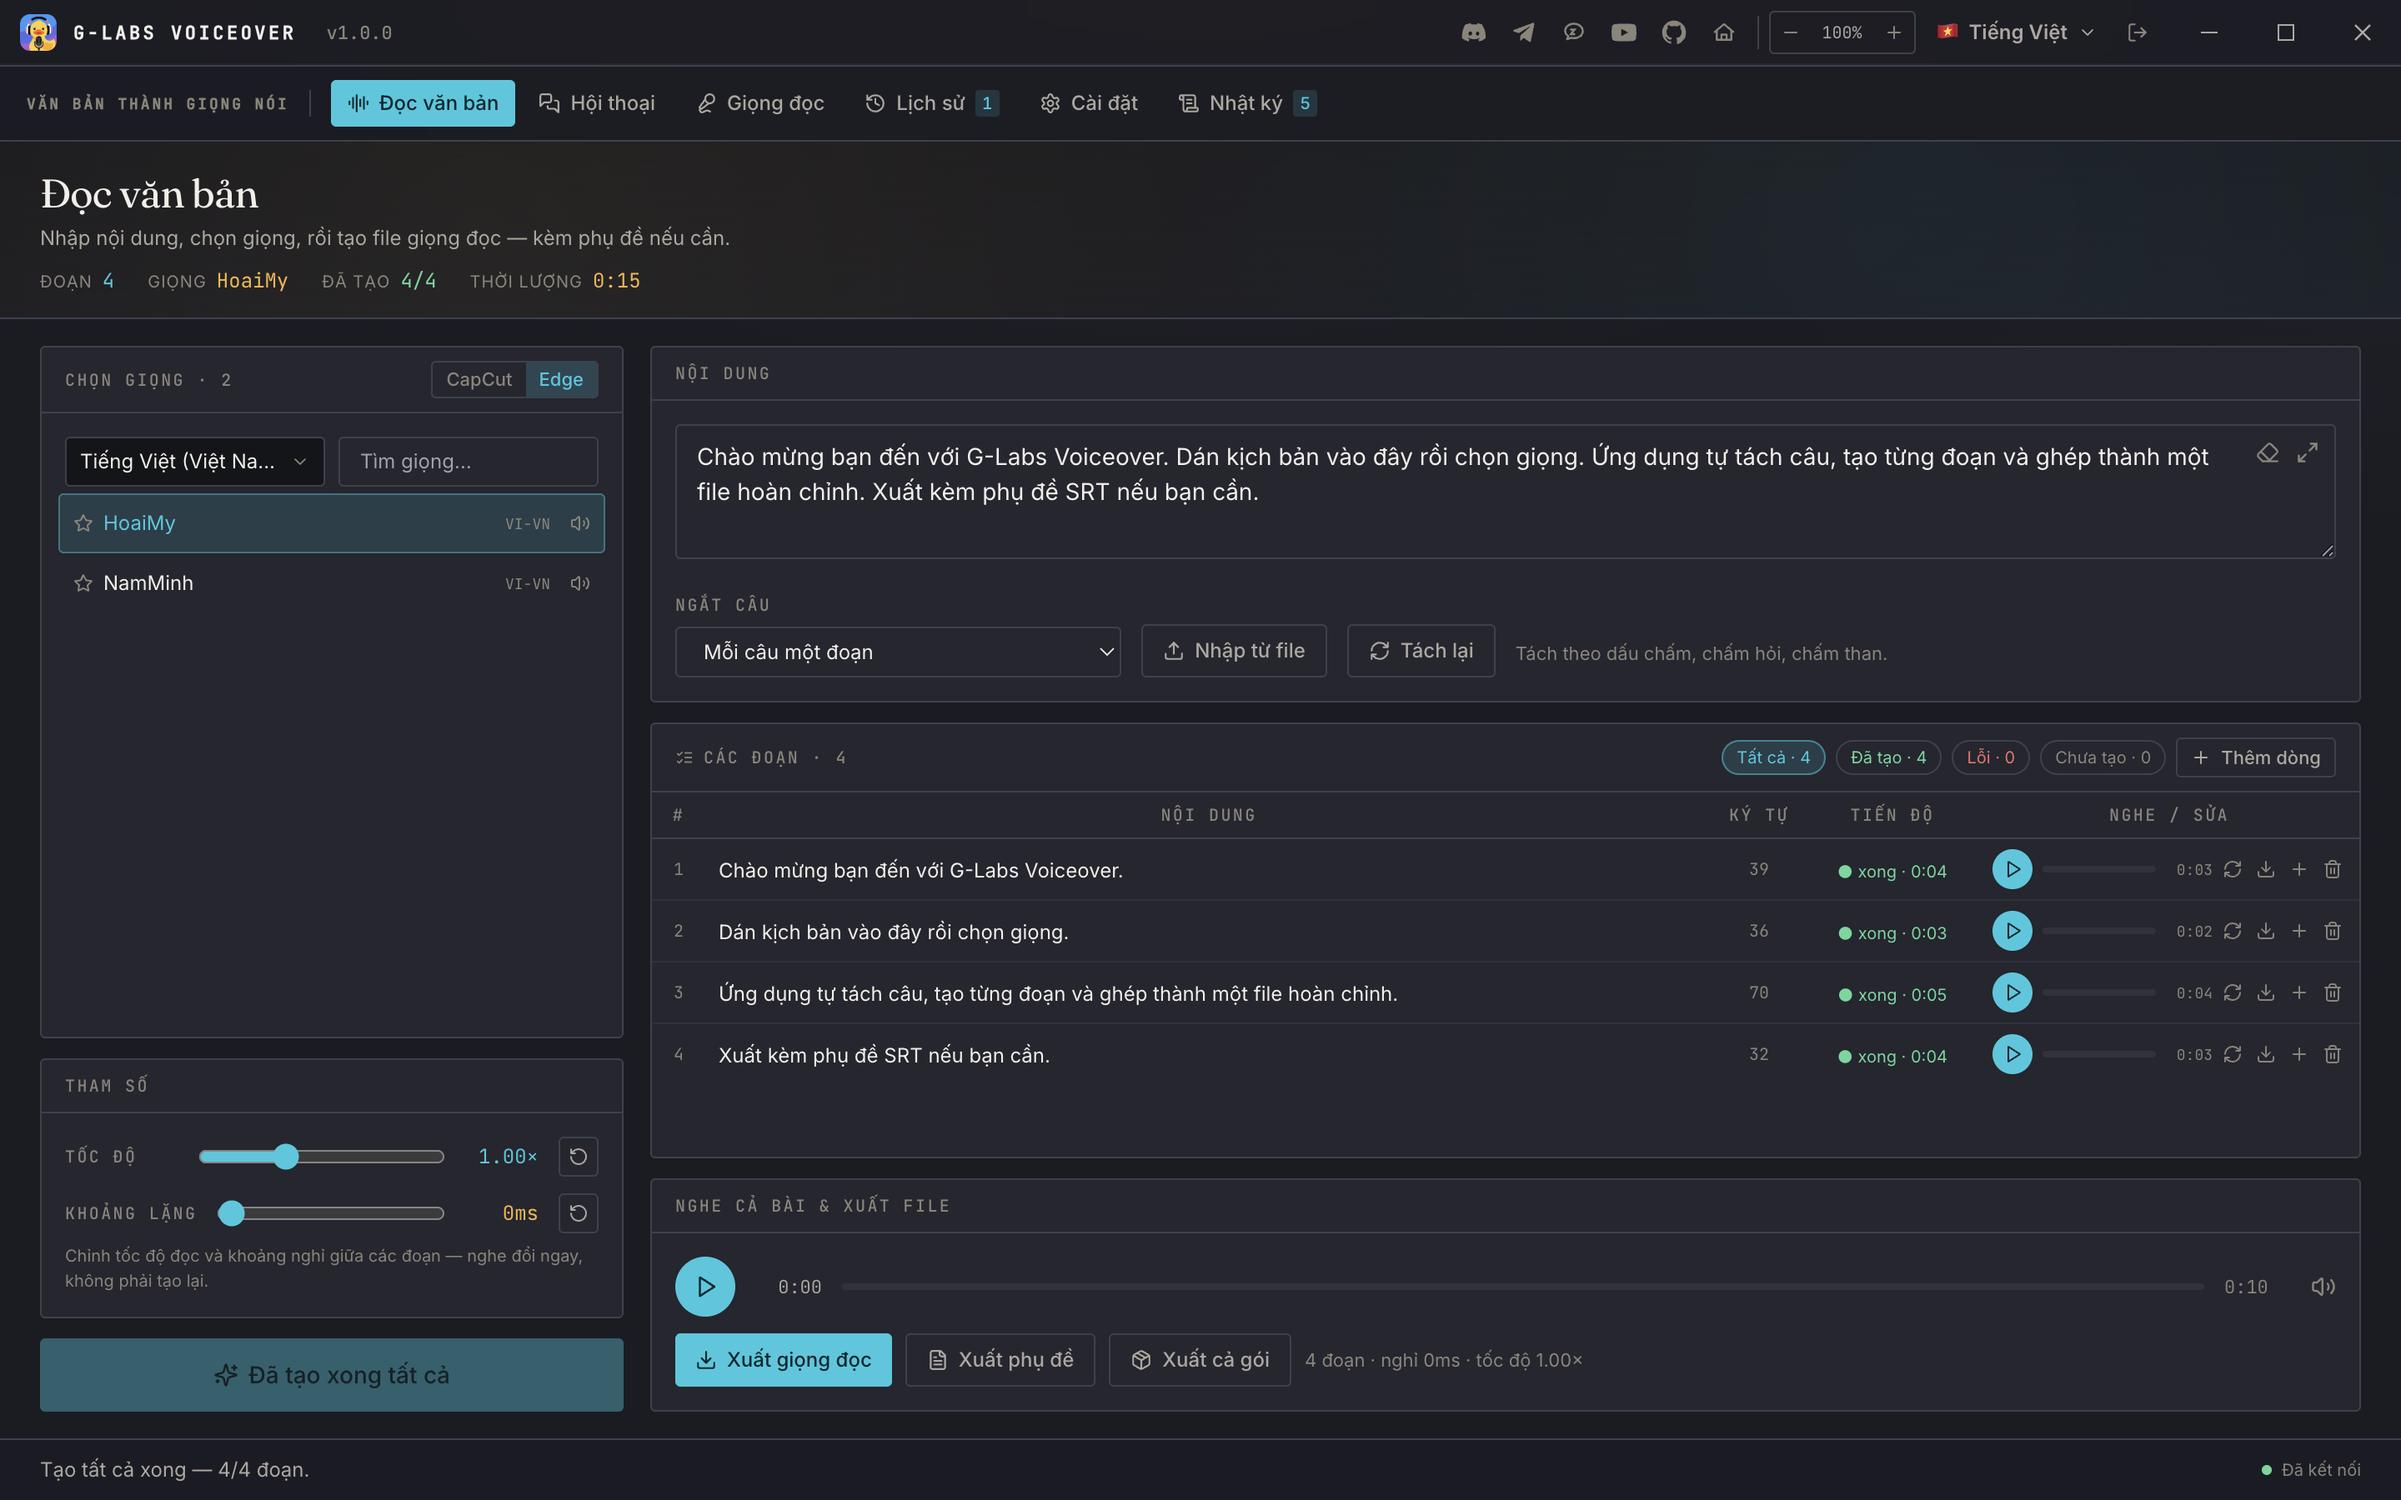
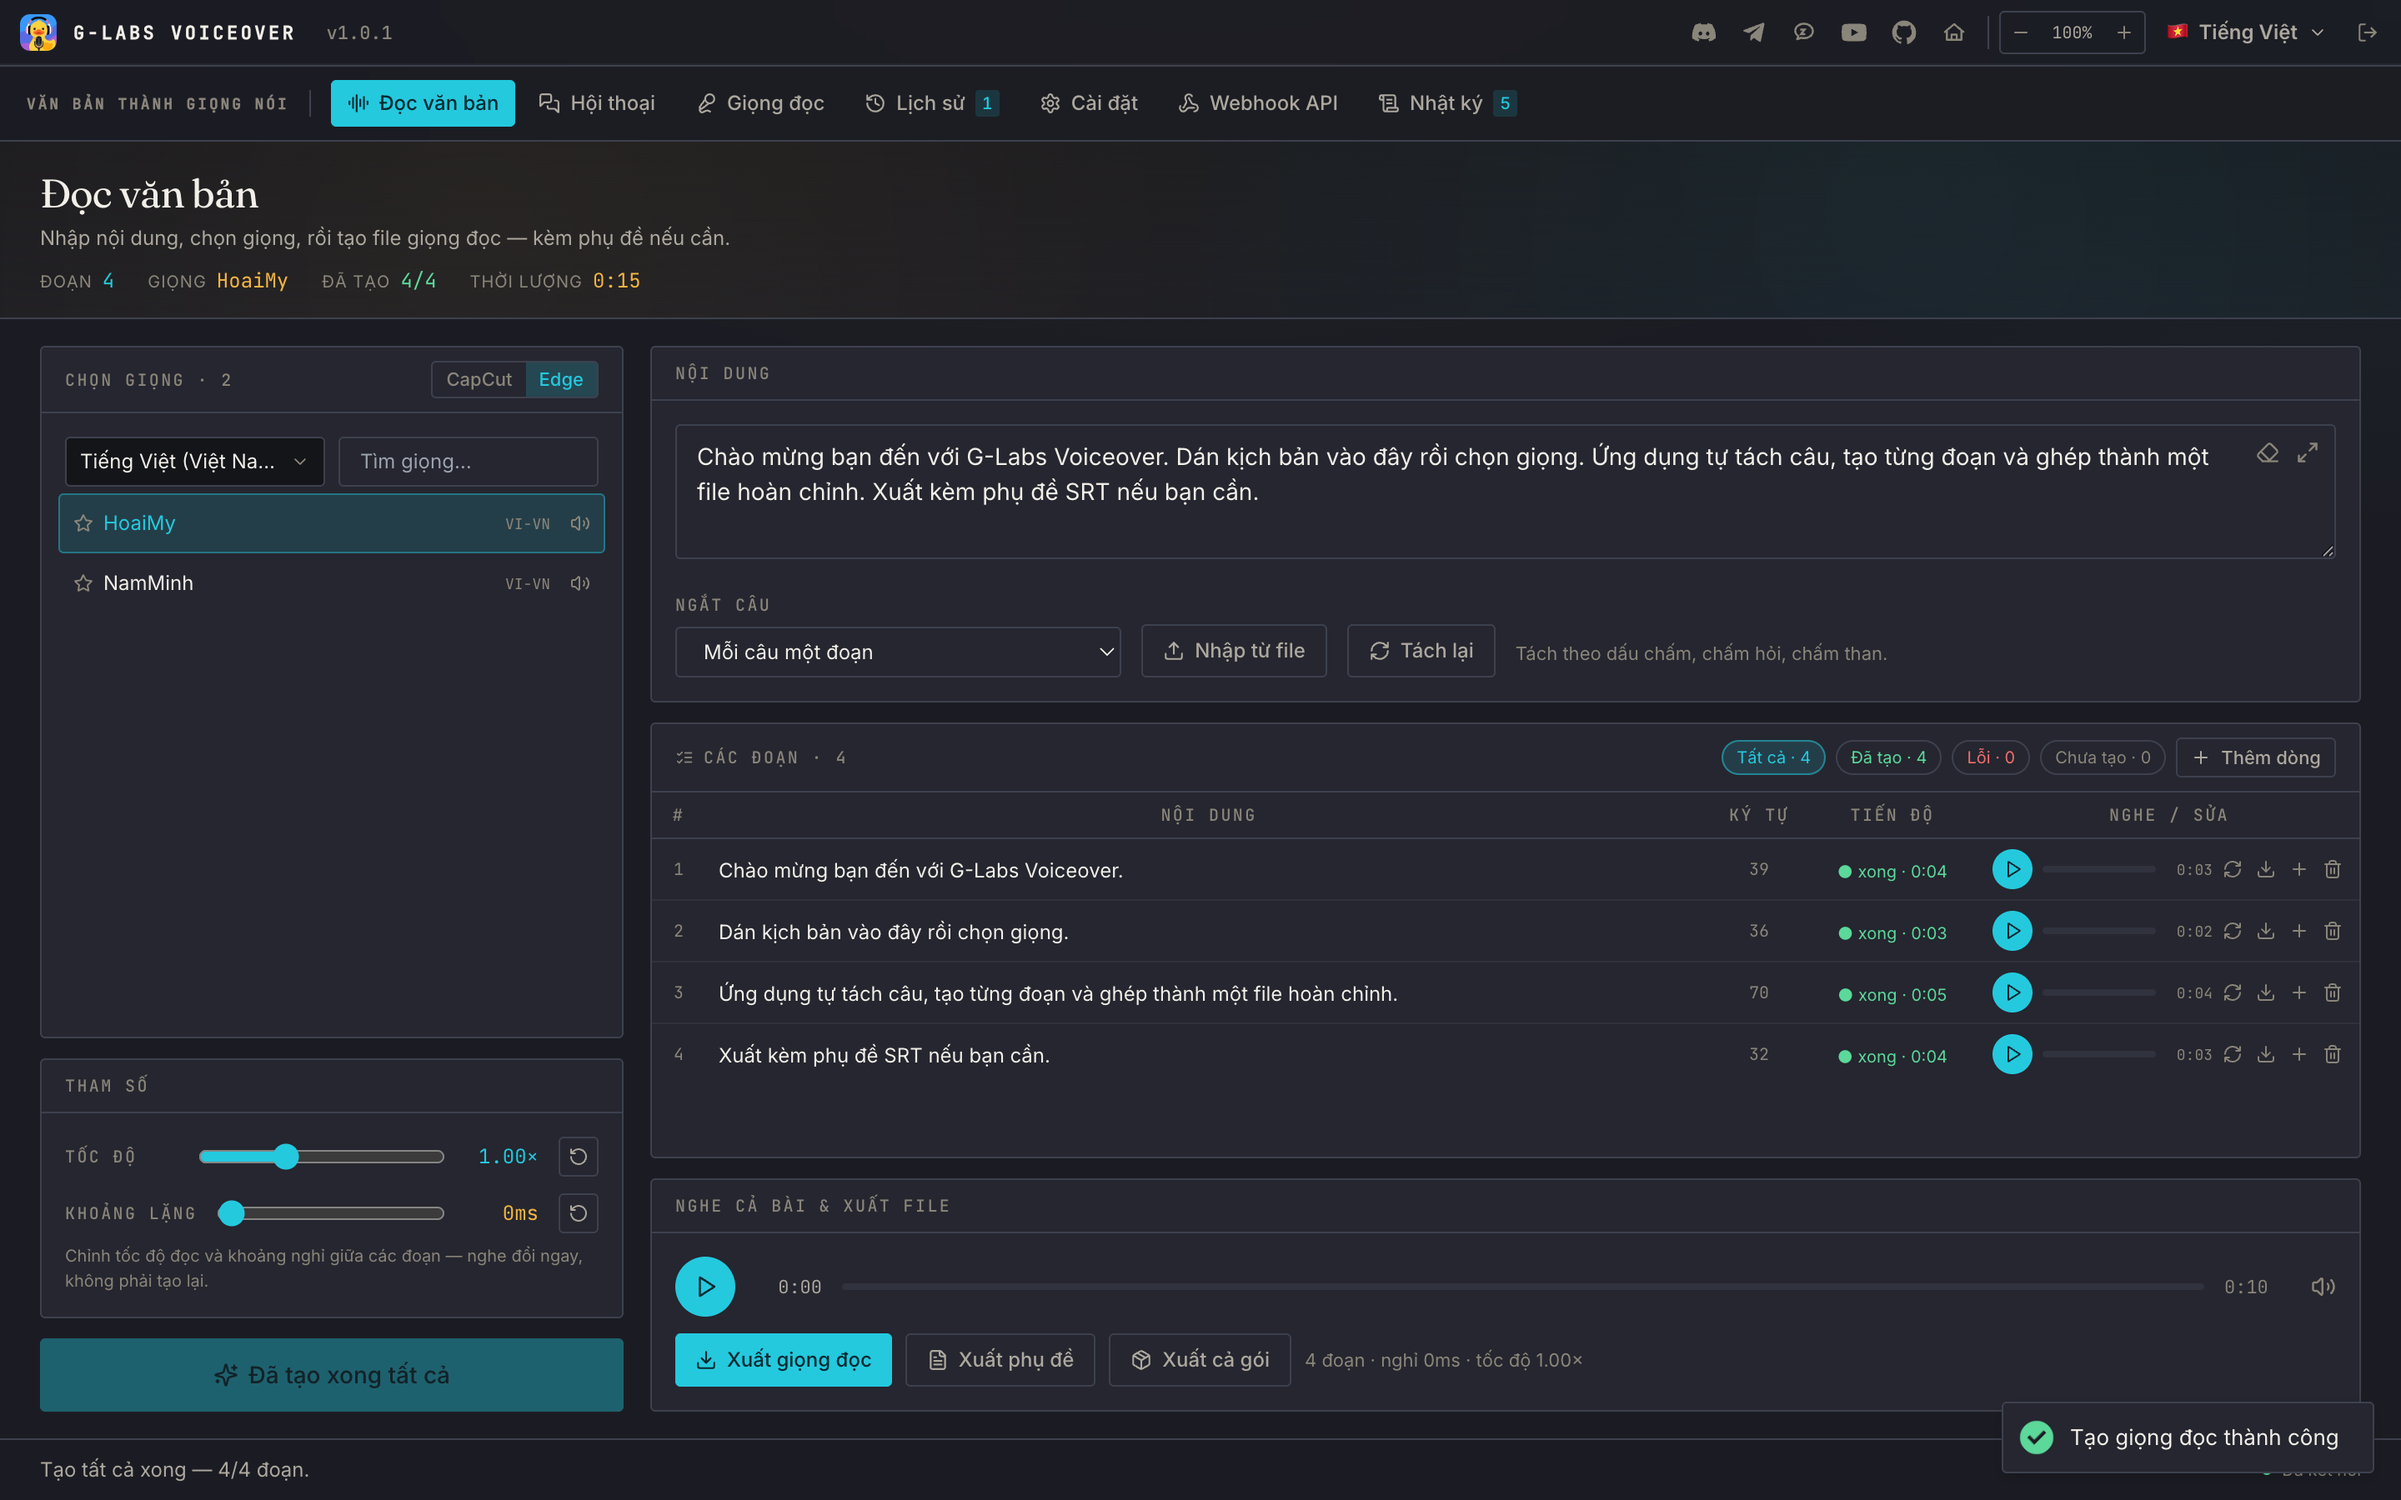
Add files via upload

diff --git a/README.vi.md b/README.vi.md
@@ -16,6 +16,7 @@
 - **Xuất file**: MP3 đã ghép, SRT, hoặc cả gói ZIP. Tên file có số thứ tự + vài chữ đầu + thời gian, nên không bao giờ ghi đè bản cũ
 - **Nghe thử giọng**: mỗi giọng có mẫu sẵn để nghe trước khi tốn lượt — giọng đa ngôn ngữ có mẫu từng thứ tiếng, giọng bản địa có mẫu tiếng của mình
 - **Kho proxy**: dán proxy đủ định dạng (`host:port:user:pass`, `user:pass@host:port`, `socks5://…`, IPv6) vào danh sách lưu; mỗi lượt gọi CapCut/Edge xoay vòng qua danh sách. **Kiểm tra lại** dò từng proxy, tự nhận diện loại (HTTP/SOCKS4/SOCKS5) và đánh dấu cái hỏng — xoá một nhát. Mật khẩu được che trong danh sách
+- **Webhook API** (tuỳ chọn bật): một máy chủ HTTP cục bộ để công cụ ngoài hoặc AI agent gọi — nộp một đoạn text hoặc cả kịch bản nhiều đoạn, chờ task, rồi tải file MP3 đã ghép (kèm file từng đoạn và SRT nếu cần). Có khoá API riêng tự sinh, chỉ chạy khi tài khoản đủ quyền, mặc định bind `127.0.0.1`. Tài liệu đầy đủ: [WEBHOOK.md](WEBHOOK.md)
 - **Ghi nhớ mọi thứ**: kịch bản, bảng đoạn, giọng đã chọn, tốc độ, khoảng lặng, giọng yêu thích, mức zoom, ngôn ngữ và tab đang mở đều còn nguyên sau khi tắt mở lại — lưu ở thư mục dữ liệu của hệ điều hành, không phải localStorage
 - **Zoom toàn giao diện** (70–140%) ngay trên titlebar — bố cục co giãn thật, thu nhỏ để hiện được nhiều hơn chứ không chỉ làm chữ bé đi
 - **Lịch sử tạo**: mỗi lượt tự lưu, tìm được theo nội dung, nạp lại đúng tab đã tạo
@@ -32,9 +33,27 @@
 |---|---|
 | ![Proxy](docs/screenshots/04-proxy.png) | ![Lịch sử](docs/screenshots/05-history.png) |
 
-| Giao diện phải-sang-trái (اردو) |
-|---|
-| ![RTL](docs/screenshots/06-rtl-urdu.png) |
+| Giao diện phải-sang-trái (اردو) | Webhook API (tự động hoá) |
+|---|---|
+| ![RTL](docs/screenshots/06-rtl-urdu.png) | ![Webhook API](docs/screenshots/07-webhook.png) |
+
+## Webhook API — tự động hoá
+
+Bật tab **Webhook API**, Voiceover chạy một máy chủ HTTP cục bộ nhỏ để công cụ của
+bạn (hoặc một AI agent) gọi:
+
+```bash
+curl -X POST http://127.0.0.1:8788/api/tts \
+  -H "X-API-Key: <khoá lấy trong panel>" -H "Content-Type: application/json" \
+  -d '{"provider":"edge","text":"Xin chào","voice":"vi-VN-HoaiMyNeural","srt":true}'
+# → { "task_id": "…" }  → chờ GET /api/status/{id}  → tải ở /api/files
+```
+
+Nộp `text` hoặc mảng `segments`, nhận một file `master.mp3` đã ghép (kèm file từng
+đoạn và SRT nếu yêu cầu). Xác thực bằng khoá API riêng mỗi máy; chỉ sinh khi tài
+khoản đủ quyền; máy chủ bind `127.0.0.1` trừ khi bạn mở ra mạng LAN. Tài liệu đầy
+đủ — mọi endpoint, trường body và cấu trúc phản hồi — nằm ở **[WEBHOOK.md](WEBHOOK.md)**,
+viết để một AI agent đọc là tích hợp được ngay.
 
 ## Nên dùng bộ máy nào?
 
@@ -58,3 +77,17 @@ Thiết lập lưu ở thư mục dữ liệu người dùng của hệ điều 
 ## Yêu cầu tài khoản
 
 Cần **tài khoản G-Labs đã trả phí bất kỳ công cụ nào** (gói Lite trở lên), hoặc có add-on Voice còn hạn. Đăng nhập bằng tài khoản Google đã liên kết với G-Labs — app mở trình duyệt hệ thống. Xem [các gói & công cụ](https://duckmartians.info).
+
+Cấu hình endpoint giọng do máy chủ bản quyền giao theo từng phiên và chỉ giữ trong bộ nhớ; không có gì về chúng nằm sẵn trong app.
+
+## Build từ mã nguồn
+
+```bash
+npm run install:all      # root + backend + frontend
+npm run dev              # frontend :5180, backend :3011
+npm run dev:app          # chạy vỏ Electron
+
+npm run build:mac        # → release/GLabsVoiceover-<phiên-bản>-arm64.dmg
+```
+
+Windows: chạy `setup.bat` một lần, rồi `build-exe.bat`.

diff --git a/README.md b/README.md
@@ -16,6 +16,7 @@ Desktop app that turns a script into a finished voice-over — **two TTS engines
 - **Exports**: merged MP3, SRT, or both in a ZIP. Filenames carry an index, the first words and a timestamp, so nothing ever overwrites an earlier save
 - **Voice preview**: every voice has a bundled sample you can hear before spending anything — multilingual voices carry one per language, native voices one in their own
 - **Proxy pool**: paste proxies in any format (`host:port:user:pass`, `user:pass@host:port`, `socks5://…`, IPv6) into a saved list; CapCut/Edge requests rotate through it round-robin. **Re-check** probes each one, auto-detects its type (HTTP/SOCKS4/SOCKS5) and flags the dead ones — then remove them in one click. Passwords are masked in the list
+- **Webhook API** (opt-in): a local HTTP server that external tools and AI agents can drive — submit a single line or a multi-segment script, poll the task, then download the merged MP3 (plus optional per-segment files and an SRT). Its own auto-generated API key, entitlement-gated, binds to `127.0.0.1` by default. Full guide: [WEBHOOK.md](WEBHOOK.md)
 - **Everything is remembered**: script, segment table, chosen voice, speed, gap, favourites, UI zoom, language and the open tab all survive a relaunch — stored in the OS app-data folder, not localStorage
 - **Whole-UI zoom** (70–140%) in the title bar — real reflow, so zooming out fits more on screen instead of only shrinking text
 - **Generation history**: every run is auto-saved, searchable by content, and reloads into the editor it came from
@@ -32,9 +33,27 @@ Desktop app that turns a script into a finished voice-over — **two TTS engines
 |---|---|
 | ![Proxy](docs/screenshots/04-proxy.png) | ![History](docs/screenshots/05-history.png) |
 
-| Right-to-left (اردو) |
-|---|
-| ![RTL](docs/screenshots/06-rtl-urdu.png) |
+| Right-to-left (اردو) | Webhook API (automation) |
+|---|---|
+| ![RTL](docs/screenshots/06-rtl-urdu.png) | ![Webhook API](docs/screenshots/07-webhook.png) |
+
+## Webhook API — automate it
+
+Enable the **Webhook API** tab and Voiceover runs a small local HTTP server your
+own tools (or an AI agent) can call:
+
+```bash
+curl -X POST http://127.0.0.1:8788/api/tts \
+  -H "X-API-Key: <key from the panel>" -H "Content-Type: application/json" \
+  -d '{"provider":"edge","text":"Xin chào","voice":"vi-VN-HoaiMyNeural","srt":true}'
+# → { "task_id": "…" }  → poll GET /api/status/{id}  → download from /api/files
+```
+
+Submit `text` or a `segments` array, get one merged `master.mp3` (plus per-segment
+files and an SRT on request). Auth is a per-install API key; generation is gated on
+your entitlement; the server binds to `127.0.0.1` unless you open it to the LAN.
+The complete reference — every endpoint, body field and response shape — is in
+**[WEBHOOK.md](WEBHOOK.md)**, written so an AI agent can integrate from it directly.
 
 ## Which engine should I use?
 
@@ -58,3 +77,17 @@ Settings live in the OS per-user data folder (`%APPDATA%\G-Labs Voiceover` on Wi
 ## Requirements
 
 A **G-Labs account with a paid plan on any tool** (Lite or above), or a valid Voice add-on. Sign in with the Google account linked to G-Labs — the app opens your system browser. See [plans & tools](https://duckmartians.info).
+
+Voice endpoints are delivered by the licence server per session and held in memory only; nothing about them ships inside the app.
+
+## Build from source
+
+```bash
+npm run install:all      # root + backend + frontend
+npm run dev              # frontend :5180, backend :3011
+npm run dev:app          # the Electron shell
+
+npm run build:mac        # → release/GLabsVoiceover-<version>-arm64.dmg
+```
+
+Windows: run `setup.bat` once, then `build-exe.bat`.
